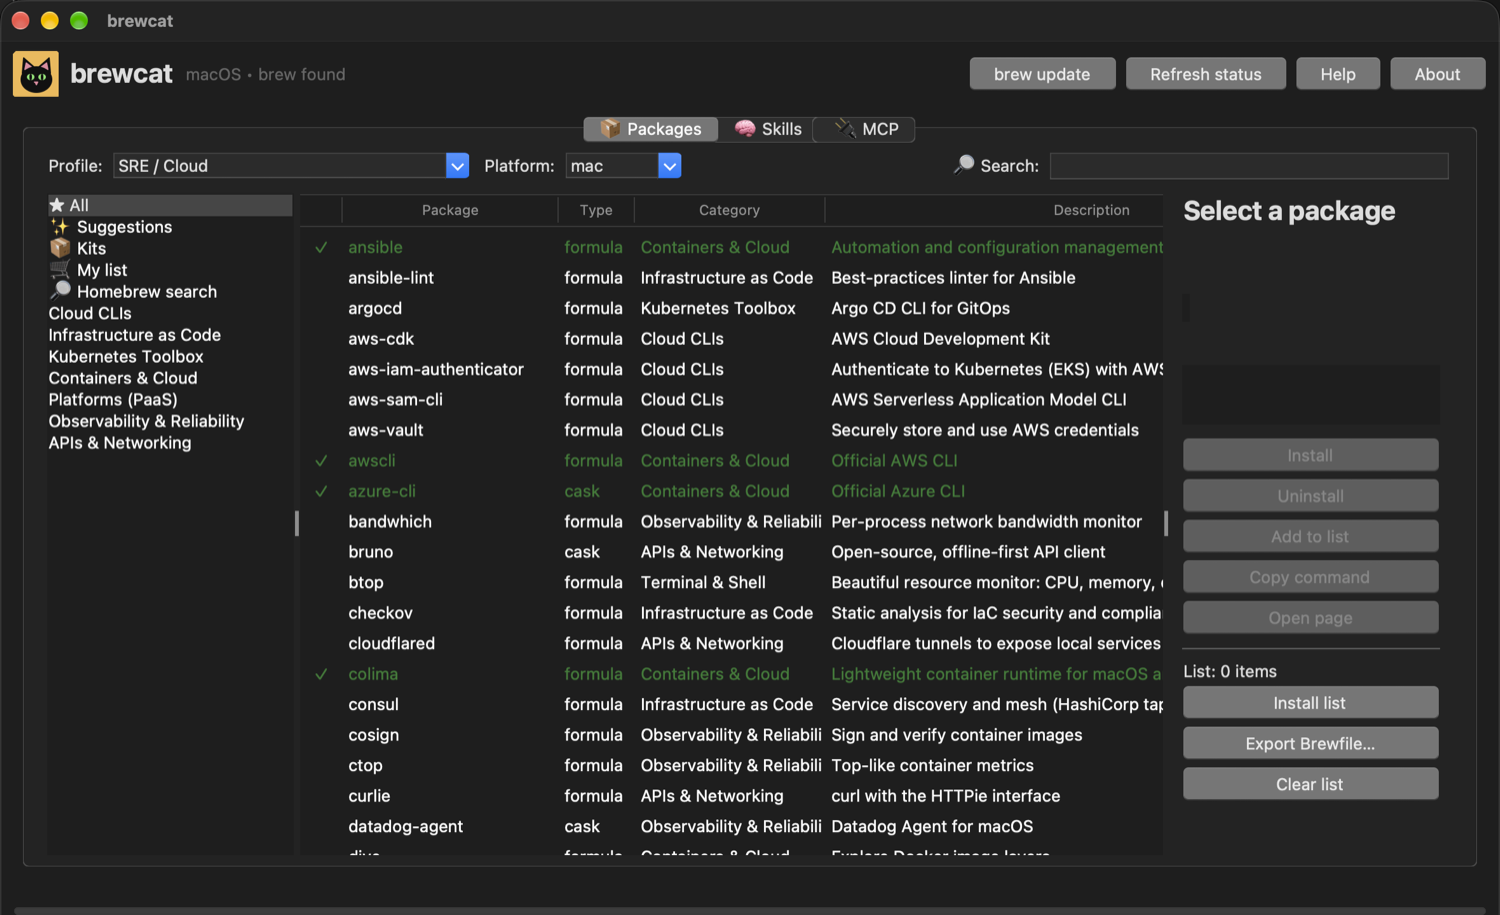
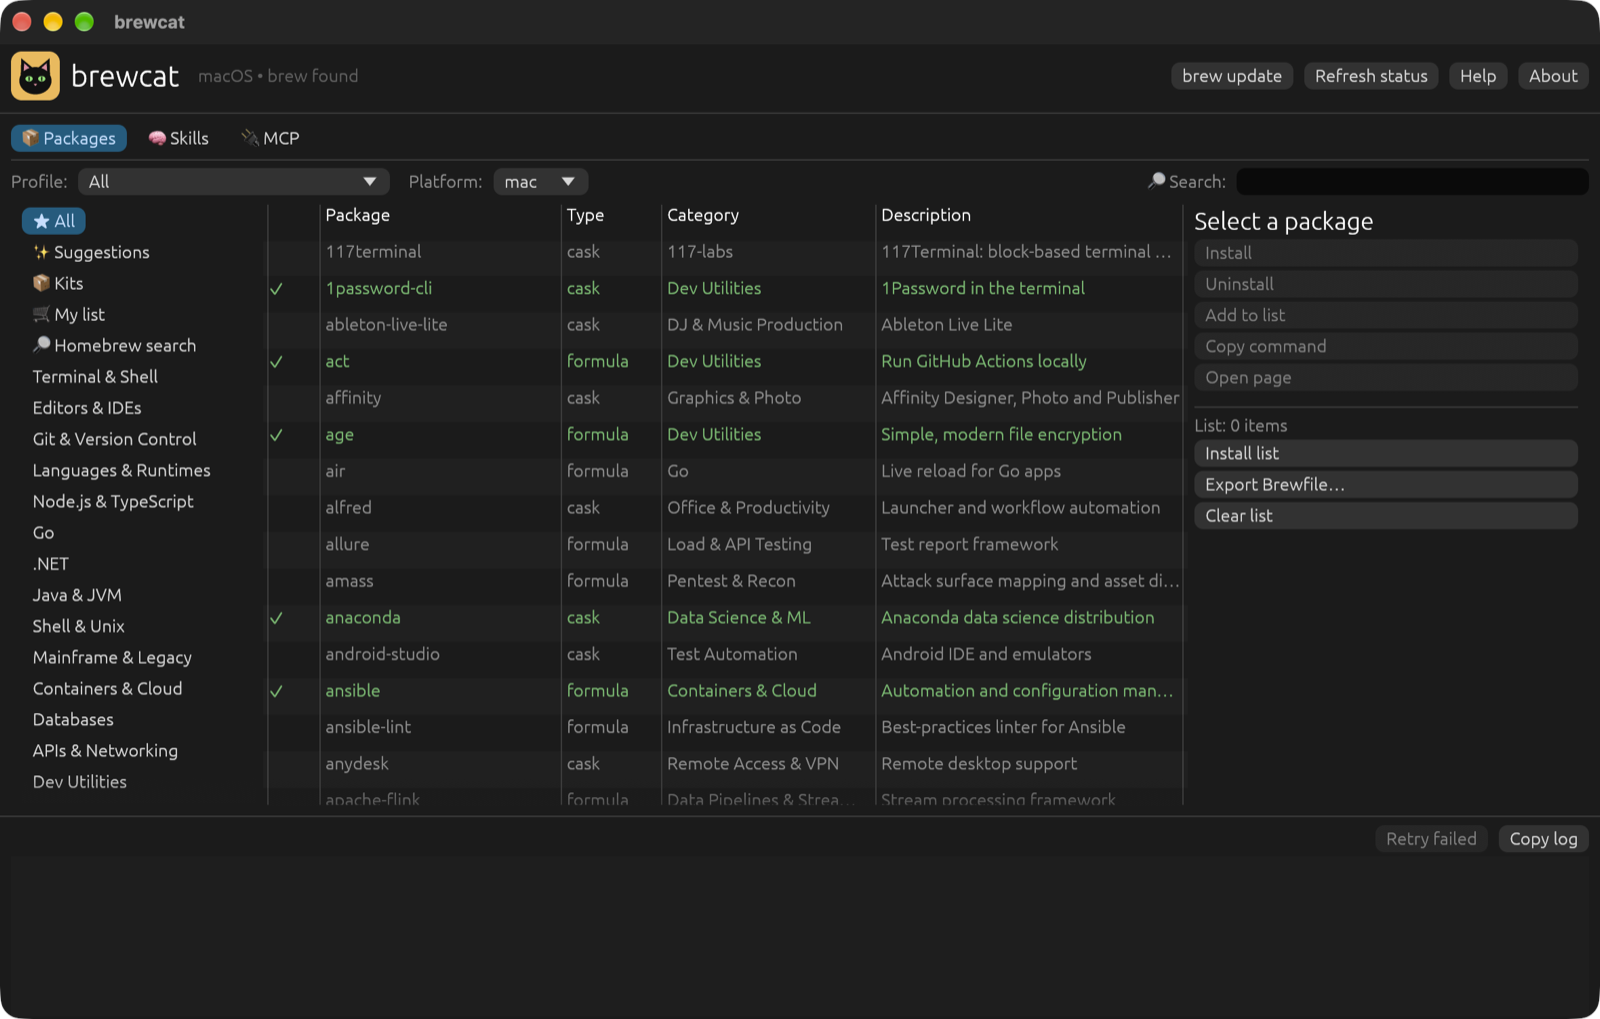
Docs: README for the Rust version
- New screenshot of the egui window (the old one showed the Tk UI).
- Say that the cask and the .dmg are Apple Silicon only; add "Upgrading from 0.1.x",
  an environment variable table and a map of src/; lead with "written in Rust".
- F1 and double-click hints in the quick start; the list of profiles is current.

diff --git a/README.md b/README.md
@@ -3,9 +3,9 @@
 **Set up a Mac or Linux machine in minutes: pick what you do, see a starter kit, confirm, install.**
 brewcat is a window and a command line on top of [Homebrew](https://brew.sh). It suggests packages for your
 profile (dev, SRE, QA, security, data, design, DJ, office, gamer…), shows what will change, and **always asks
-before it installs anything**. It is a single native binary: no Python or Tk needed.
+before it installs anything**. It is a single native binary written in Rust.
 
-    brew install --cask 1985epma/brewcat/brewcat     # macOS app (Launchpad, Spotlight, Dock)
+    brew install --cask 1985epma/brewcat/brewcat     # macOS app (Launchpad, Spotlight, Dock); Apple Silicon only
     brew install 1985epma/brewcat/brewcat            # the `brewcat` command + window, macOS and Linux
 
 ![brewcat window: profile filter, package list, details and install buttons](assets/screenshots/catalog.png)
@@ -13,8 +13,8 @@ before it installs anything**. It is a single native binary: no Python or Tk nee
 ## Quick start
 
 1. Open brewcat (`brewcat`, or the app in Launchpad). On the first launch it asks what you do and shows a starter kit.
-2. Pick a **kit** or add packages to **My list**. You see what is new, what is already installed and what Homebrew
-   will pull in as dependencies, before anything runs.
+2. Pick a **kit** or add packages to **My list** (double-click a package, or **Add to list**). You see what is new, what is
+   already installed and what Homebrew will pull in as dependencies, before anything runs. **F1** opens the help.
 3. Confirm. If a package fails, the others still install, and **Retry failed** runs only the ones that failed.
 
 Prefer the terminal? `brewcat install "terraform + aws"` shows the same plan and asks the same question.
@@ -23,7 +23,8 @@ bundle, and prints how to fix it.
 
 ## What it does
 
-- Categories, search, and filters by profile (Dev/Gamer) and platform
+- Categories, search, and filters by platform and by profile: Dev, SRE/Cloud, QA, Data, Network, Security, Design, DJ,
+  Office, Vendors, 117-labs and Gamer
 - ✨ Suggestions based on what you already have installed
 - 🧪 **117-labs** profile: products built by 1985epma (`k8scli`, `epma-windows-usb-creator`, `117terminal`, `epma-system-data`), installable in one click
 - 🏗 SRE/Cloud profile: Terraform, AWS, Google Cloud, Azure, Railway, Kubernetes, observability
@@ -48,6 +49,20 @@ Recent Homebrew versions refuse to load formulae from third-party taps until you
 `brew update && brew upgrade brewcat`).
 
 The formula builds brewcat from source with Rust (Homebrew installs it for you), so the first install takes a few minutes.
+Because it is built on your own machine it is not tied to Apple Silicon; only the cask and the `.dmg` are.
+
+## Upgrading from 0.1.x
+
+0.2.0 is a rewrite in Rust: the same catalog, kits, Skills/MCP installers and command line (the output of `search`,
+`list`, `kits`, `export` and `install -n` is identical), but no Python or Tk. Versions are plain `X.Y.Z` from now on.
+
+    brew update && brew upgrade brewcat      # formula: builds from source, a few minutes
+    brew upgrade --cask brewcat              # cask: Apple Silicon only
+    brewcat --install-app                    # macOS: refresh the Launchpad shortcut
+
+The Launchpad shortcut made by 0.1.x started Python and stops working after the upgrade; `brewcat --install-app`
+(or just starting `brewcat` once) replaces it. `python-tk` is not needed any more: remove it if nothing else uses it
+(`brew uses --installed python-tk`). `BREWCAT_BRANDED` and `BREWCAT_HIDDEN_APP` no longer exist.
 
 ## Appear in Launchpad / Applications (macOS)
 
@@ -58,7 +73,7 @@ The formula builds brewcat from source with Rust (Homebrew installs it for you),
 
 ## Other install options
 
-**macOS (.dmg):** download `brewcat-<version>.dmg` from [Releases](https://github.com/1985epma/homebrew-brewcat/releases), drag *brewcat* to Applications. The app is not notarized by Apple, so macOS may say it "could not verify brewcat is free of malware". Fix it once with:
+**macOS (.dmg), Apple Silicon only:** download `brewcat-<version>.dmg` from [Releases](https://github.com/1985epma/homebrew-brewcat/releases), drag *brewcat* to Applications. On an Intel Mac use the formula. The app is not notarized by Apple, so macOS may say it "could not verify brewcat is free of malware". Fix it once with:
 
     xattr -dr com.apple.quarantine /Applications/brewcat.app
 
@@ -79,6 +94,15 @@ Review the script before piping it to `bash`: https://github.com/1985epma/homebr
 **Linux, the window:** it needs a graphical session and OpenGL/EGL or Vulkan drivers (Debian/Ubuntu:
 `sudo apt install libegl1 libgl1`). The command line works without them, also on a headless box.
 
+## Environment variables
+
+| Variable | Effect |
+|---|---|
+| `BREWCAT_BREW` | Path of the `brew` to use, for a Homebrew in an unusual place. Empty: behave as if Homebrew were not installed. |
+| `BREWCAT_NO_WELCOME=1` | Do not show the first-run welcome. |
+| `BREWCAT_NO_APP=1` | macOS: do not create `~/Applications/brewcat.app` automatically. |
+| `BREWCAT_REF`, `BREWCAT_HOME` | `install.sh` only: the tag to build (default: the latest) and where its sources go (default `~/.local/share/brewcat`). |
+
 ## Command line
 
     brewcat --help        full help
@@ -97,6 +121,11 @@ Review the script before piping it to `bash`: https://github.com/1985epma/homebr
 Exit codes: 0 success, 1 nothing found / a check or operation failed, 2 invalid usage.
 `--json` is available on `search`, `list`, `kits` and `doctor`; data goes to stdout, messages to stderr.
 
+## Run from source
+
+    cargo run --release                      # the window
+    cargo run --release -- search jq         # the command line
+
 ## Development
 
     cargo fmt --check && cargo clippy --all-targets -- -D warnings && cargo test
@@ -104,7 +133,20 @@ Exit codes: 0 success, 1 nothing found / a check or operation failed, 2 invalid 
     cargo run --example validate_catalog      # every catalog package must still exist in Homebrew (needs curl)
 
 The window is the `gui` feature, on by default. CI runs the same on Linux and macOS; a weekly job re-validates the
-catalog against Homebrew's API.
+catalog against Homebrew's API. The command-line tests run the real binary against a fake `brew` (see `BREWCAT_BREW`);
+the window's logic is tested without opening one, including real pointer clicks fed to egui.
+
+    src/main.rs        entry point: the command line first, the window when there is no command
+    src/cli.rs         arguments and commands (search, list, kits, install, export, profiles)
+    src/doctor.rs      `brewcat doctor` and the redacted report
+    src/catalog.rs     the curated catalog (data/catalog.json) and its lookups
+    src/plan.rs        "what will change" before an install (brew --dry-run)
+    src/brewenv.rs     finding brew, running it natively on Apple Silicon, retrying one package at a time
+    src/brewrunner.rs  runs brew in its own process group and can stop it
+    src/extras_core.rs Skills and MCP installers: repository parsing, symlink checks, config edits
+    src/launcher.rs    the macOS shortcut for Launchpad
+    src/gui/           the egui window: pure state (tested), worker threads, dialogs, tabs
+    tests/             the binary against a fake brew, and the catalog checks
 
 The catalog is `data/catalog.json`: one JSON object per package on its own line, then the kits, the categories of each
 profile and the "essentials" suggested for it. To add a package, add a line to `items`:
@@ -122,11 +164,6 @@ at missing packages and categories without packages.
 
 The version lives in `Cargo.toml` only (`X.Y.Z`); the script bumps it and `Cargo.lock`, tags, builds the `.dmg`, creates
 the GitHub release and sets the formula and cask sha256 from what GitHub actually serves. Tags are never moved.
-
-## Run from source
-
-    cargo run --release                      # the window
-    cargo run --release -- search jq         # the command line
 
 ## Where things are installed
 
